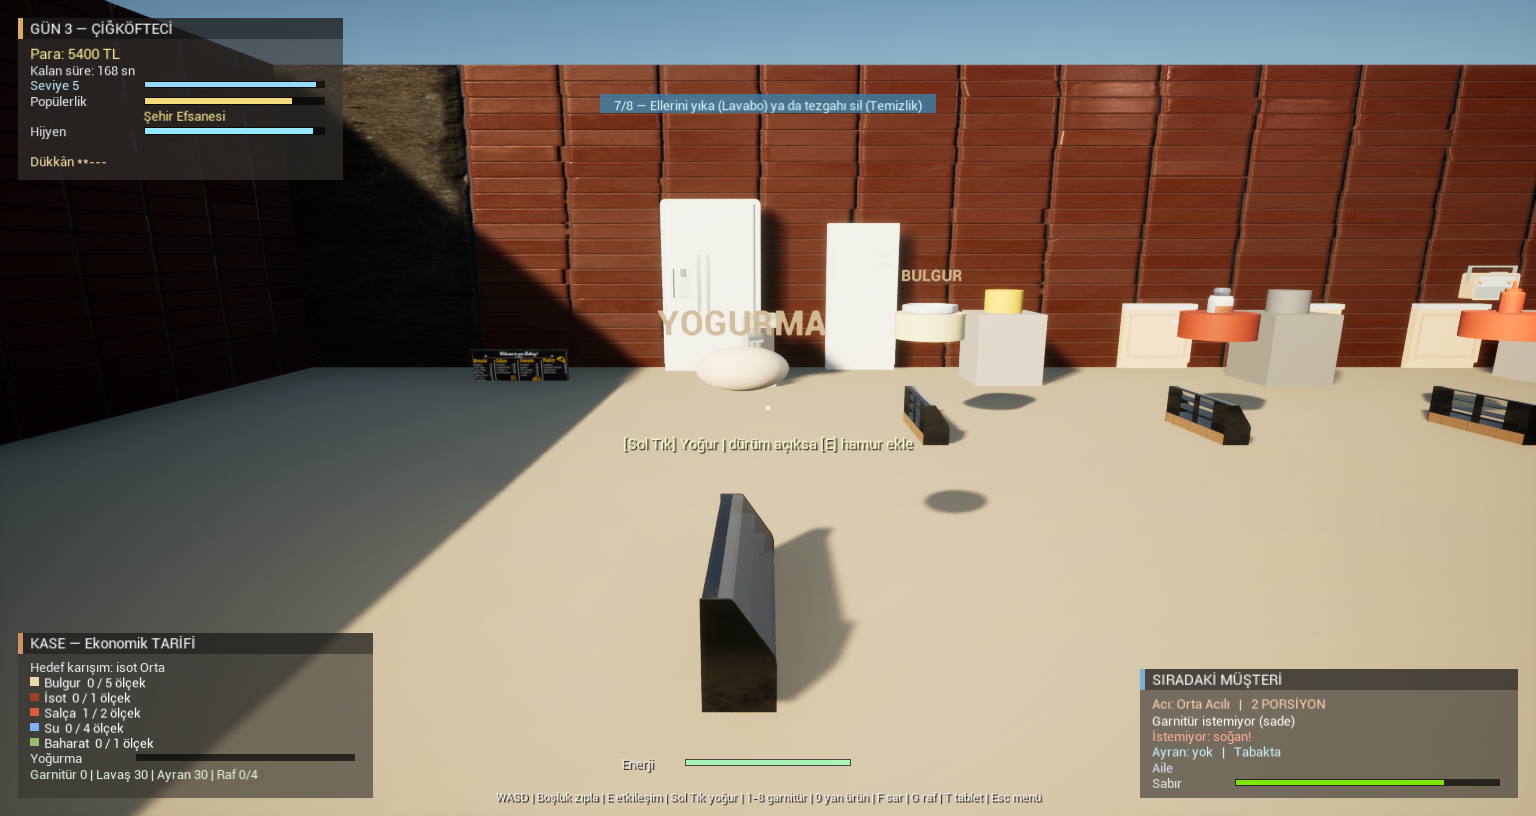
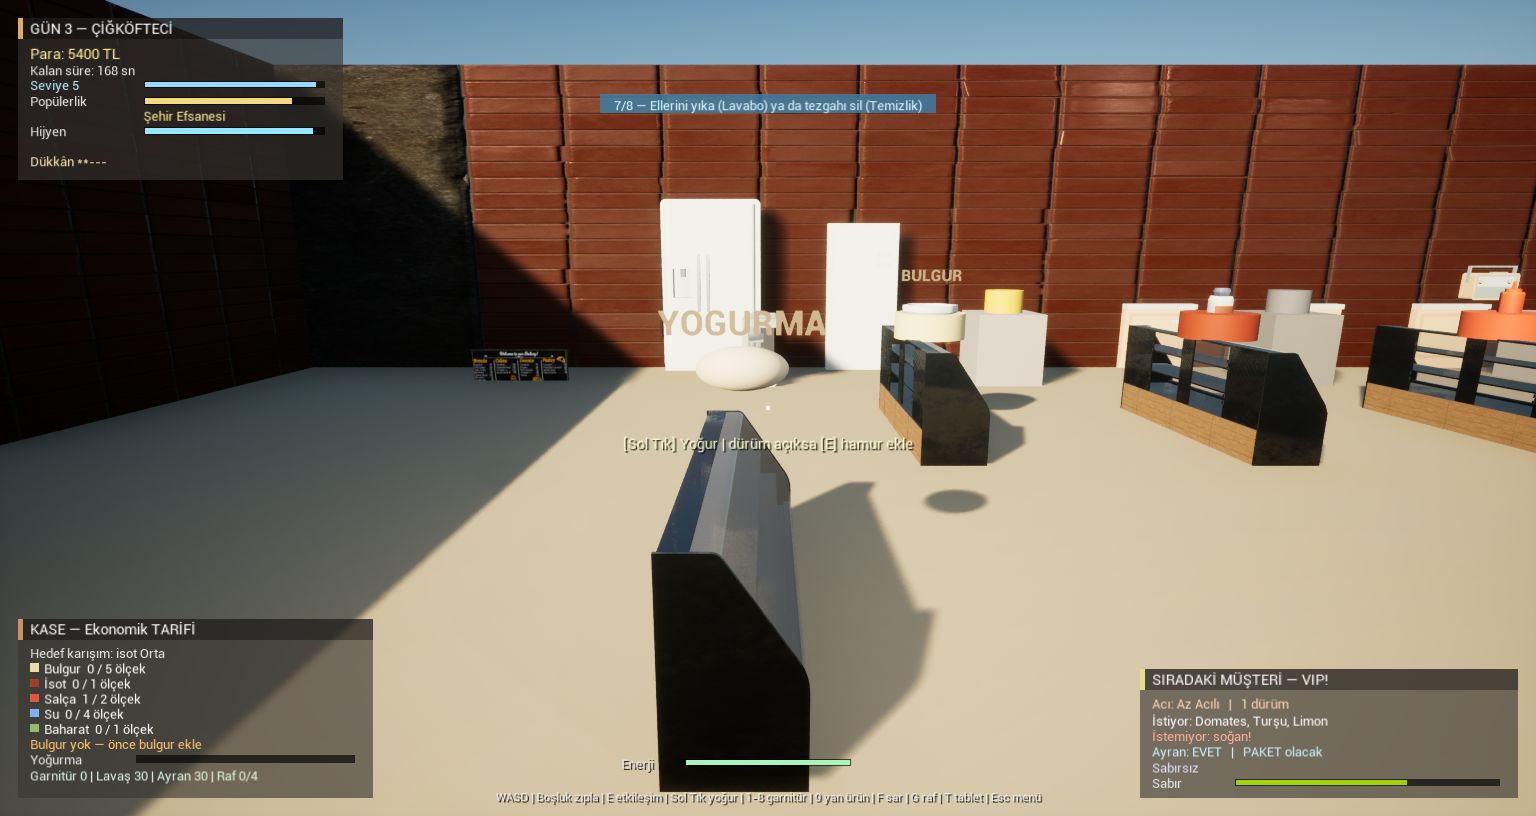
fix: counters stand at counter height, and the isot target was uninitialised memory
Two things, and the second one is the reason the first was worth doing.

The counters. SM_BakeryCounter02 is a four-metre counter, 172 high, and the
ingredient stations measure it against a 90cm cube - so it fitted at 0.22 scale,
39cm tall, and the shop was furnished with units the player reaches down into.
Height is the measurement that has to be right, because it is what the player
stands at; length is what a shop varies. The model may now run past its footprint
while still being bounded exactly by the box height, so the counters come out at
210 long and 90 high, against 250 between stations - a row with a gap.

Granted per station, and the first version granted it to everything: the flat
panels are authored lying down, so their mesh height is a thickness of two units.
The rule could not tell that from a counter that is short for its box, and it
inflated a 45cm sign into a three-metre one. The counter list is its own
predicate rather than a reuse of StationKeepsTop - which contains five of the
seven - because "has a tub" and "is a counter" are different questions, and
merging them left the kneading and chopping benches knee-high beside their
neighbours.

Then the test found the real one. Cigkofte.MixDiagnosis failed on a mix that is
on target by construction, and the numbers in the failure said the isot target
was 6. Another run said 1. TargetCounts fills the array by name and then sums
indices 0..3 - and the enum runs Bulgur, Isot, Salca, Su, Baharat, so index 1 is
[…]

diff --git a/Source/CigkofteSimulator/World/CigkofteStation.cpp b/Source/CigkofteSimulator/World/CigkofteStation.cpp
@@ -33,6 +33,31 @@ static bool StationKeepsTop(ECigStation Type)
 	}
 }
 
+// The stations furnished with the four-metre bakery counter.
+//
+// Kept as its own list rather than reusing StationKeepsTop, which happens to
+// contain five of them: they are different questions. One asks whether the
+// coloured tub survives, the other whether the model is a counter that has to
+// stand at counter height. Merging them would have left the kneading and
+// chopping benches knee-high next to their neighbours, which is what the first
+// version of this did.
+static bool StationIsCounterRun(ECigStation Type)
+{
+	switch (Type)
+	{
+	case ECigStation::Bulgur:
+	case ECigStation::Isot:
+	case ECigStation::Salca:
+	case ECigStation::Su:
+	case ECigStation::Baharat:
+	case ECigStation::Yogurma:
+	case ECigStation::Dograma:
+		return true;
+	default:
+		return false;
+	}
+}
+
 namespace
 {
 	UStaticMesh* CigLoadPrimitiveMesh(const TCHAR* Path)
@@ -288,7 +313,11 @@ void ACigkofteStation::Setup(ECigStation InType, const FLinearColor& Color, cons
 
 	// Last, so everything above still describes the box the layout reserved.
 	// Without the pack this does nothing and the coloured primitives stand.
-	ApplyStationMesh(MeshForStation(StationType), BaseScale);
+	// The counters get the overhang; nothing else does. Two and a half boxes of
+	// length puts SM_BakeryCounter02 at 210 against 250 between stations - a row
+	// of counters with a gap, which is what a kitchen looks like.
+	const float Overhang = StationIsCounterRun(StationType) ? 2.5f : 1.f;
+	ApplyStationMesh(MeshForStation(StationType), BaseScale, Overhang);
 
 	UpdateTickState();
 }
@@ -501,7 +530,7 @@ UStaticMesh* ACigkofteStation::MeshForStation(ECigStation Type)
 	}
 }
 
-void ACigkofteStation::ApplyStationMesh(UStaticMesh* Mesh, const FVector& BaseScale)
+void ACigkofteStation::ApplyStationMesh(UStaticMesh* Mesh, const FVector& BaseScale, float FootprintOverhang)
 {
 	if (!Mesh || !Visual)
 	{
@@ -520,10 +549,26 @@ void ACigkofteStation::ApplyStationMesh(UStaticMesh* Mesh, const FVector& BaseSc
 	const FVector RawSize = B.BoxExtent * 2.f;
 	const FVector TargetBox = 100.f * BaseScale.GetAbs(); // the cube is 100uu a side
 
-	auto FitInto = [&TargetBox](float SizeX, float SizeY, float SizeZ)
+	// Height is a hard limit; the footprint may be allowed to overhang.
+	//
+	// The ingredient stations are the case that forced this. Their box is a 90cm
+	// cube and SM_BakeryCounter02 is a four-metre counter, 172 high - so fitting
+	// inside the box on every axis put the counter at 0.22 scale, 39cm tall, and
+	// furnished the shop with knee-high units the player reaches down into.
+	//
+	// A counter's height is the measurement that has to be right: it is what the
+	// player stands at. Its length is what a shop varies.
+	//
+	// Granted per station rather than to everything, and the first version did
+	// grant it to everything: the flat panels - the menu board, the sign - are
+	// authored lying down, so their mesh height is a thickness of two units. The
+	// rule could not tell that from a counter that is short for its box, and it
+	// inflated a 45cm sign into a three-metre one.
+	const float Overhang = FMath::Max(FootprintOverhang, 1.f);
+	auto FitInto = [&TargetBox, Overhang](float SizeX, float SizeY, float SizeZ)
 	{
-		return FMath::Min3(TargetBox.X / FMath::Max(SizeX, 1.f),
-			TargetBox.Y / FMath::Max(SizeY, 1.f),
+		return FMath::Min3(TargetBox.X * Overhang / FMath::Max(SizeX, 1.f),
+			TargetBox.Y * Overhang / FMath::Max(SizeY, 1.f),
 			TargetBox.Z / FMath::Max(SizeZ, 1.f));
 	};
 

diff --git a/Source/CigkofteSimulator/Tests/CigMixDiagnosisTests.cpp b/Source/CigkofteSimulator/Tests/CigMixDiagnosisTests.cpp
@@ -54,7 +54,25 @@ bool FCigMixOnTargetSaysNothing::RunTest(const FString&)
 		Hedef[(int32)ECigIngredient::Salca], Hedef[(int32)ECigIngredient::Baharat],
 		Hedef[(int32)ECigIngredient::Isot]);
 
-	TestFalse(TEXT("Hedefi tutturan karışım uyarı almamalı"), D.IsProblem());
+	// The failure message carries the bowl, which is how this test earned itself:
+	// it failed on a mix that is on target by construction, and the numbers said
+	// the isot target was 6 in one run and 1 in another. TargetCounts was summing
+	// array indices 0..3 while filling the array by name, so it read the
+	// uninitialised isot slot and skipped baharat. The number the HUD showed the
+	// player was uninitialised stack memory.
+	TestFalse(FString::Printf(TEXT("Hedefi tutturan karışım uyarı almamalı (sorun=%d şiddet=%.2f, kase=%d/%d/%d/%d/%d)"),
+		(int32)D.Problem, D.Severity,
+		Hedef[(int32)ECigIngredient::Bulgur], Hedef[(int32)ECigIngredient::Su],
+		Hedef[(int32)ECigIngredient::Salca], Hedef[(int32)ECigIngredient::Baharat],
+		Hedef[(int32)ECigIngredient::Isot]), D.IsProblem());
+
+	// Pinned directly as well, because the diagnosis test above only catches it
+	// while the threshold happens to be tight enough to notice.
+	TestTrue(TEXT("İsot hedefi tarifin bandının içinde olmalı"),
+		(float)Hedef[(int32)ECigIngredient::Isot] /
+			(float)(Hedef[(int32)ECigIngredient::Bulgur] + Hedef[(int32)ECigIngredient::Su] +
+				Hedef[(int32)ECigIngredient::Salca] + Hedef[(int32)ECigIngredient::Baharat] +
+				Hedef[(int32)ECigIngredient::Isot]) <= R.IsotMaxFrac + 0.01f);
 
 	// An empty bowl is not a fault. It is where every batch starts.
 	TestFalse(TEXT("Boş kase sorun sayılmamalı"), Bak(0, 0, 0, 0, 0).IsProblem());

diff --git a/Source/CigkofteSimulator/Cooking/CigCookingSystem.cpp b/Source/CigkofteSimulator/Cooking/CigCookingSystem.cpp
@@ -130,9 +130,21 @@ void UCigCookingSystem::TargetCounts(const FCigRecipe& R, int32 OutCounts[(int32
 	OutCounts[(int32)ECigIngredient::Salca] = FMath::Max(1, FMath::RoundToInt(BulgurBase * R.RatioSalca));
 	OutCounts[(int32)ECigIngredient::Baharat] = FMath::Max(1, FMath::RoundToInt(BulgurBase * R.RatioBaharat));
 
-	// Isot: the count that lands in the middle of the recipe's range
+	// Isot: the count that lands in the middle of the recipe's range.
+	//
+	// The four others are summed by name. Summing indices 0..3 looks equivalent
+	// and is not: the enum runs Bulgur, Isot, Salca, Su, Baharat, so index 1 is
+	// isot - the one slot nothing has written yet - and index 4, Baharat, is left
+	// out. The isot target shown to the player was therefore derived from
+	// uninitialised stack memory, and came out as a different number on every
+	// run: the screenshot pass caught "İsot 0 / 6", "0 / 3", "0 / 2" and "0 / 1"
+	// across four captures of the same recipe before a test pinned it.
 	const float MidFrac = (R.IsotMinFrac + R.IsotMaxFrac) * 0.5f;
-	const int32 Others = OutCounts[0] + OutCounts[1] + OutCounts[2] + OutCounts[3];
+	const int32 Others =
+		OutCounts[(int32)ECigIngredient::Bulgur] +
+		OutCounts[(int32)ECigIngredient::Su] +
+		OutCounts[(int32)ECigIngredient::Salca] +
+		OutCounts[(int32)ECigIngredient::Baharat];
 	OutCounts[(int32)ECigIngredient::Isot] = FMath::Clamp(FMath::RoundToInt(MidFrac * Others / (1.f - MidFrac)), 1, 6);
 }
 

diff --git a/Source/CigkofteSimulator/World/CigkofteStation.h b/Source/CigkofteSimulator/World/CigkofteStation.h
@@ -136,5 +136,8 @@ private:
 	// Fits the model inside the collision box the layout was built around and
 	// hides the primitives. No-op without a mesh, which is what keeps the shop
 	// standing on a machine that does not have the pack.
-	void ApplyStationMesh(UStaticMesh* Mesh, const FVector& BaseScale);
+	// Overhang: how far the model may run past its footprint while still being
+	// bounded exactly by the box's height. 1 means "fit inside the box", which is
+	// right for everything that is not a counter.
+	void ApplyStationMesh(UStaticMesh* Mesh, const FVector& BaseScale, float FootprintOverhang);
 };

diff --git a/docs/CommercialDemo/KNOWN_LIMITATIONS.md b/docs/CommercialDemo/KNOWN_LIMITATIONS.md
@@ -5,14 +5,12 @@ not fixed yet belong in `PLAN.md`, not here.
 
 ## Visual
 
-- **The ingredient counters are stubs.** `SM_BakeryCounter02` is a four-metre
-  bakery counter and the ingredient stations measure it against a 90cm cube, so
-  it comes out at 0.22 scale — 90 wide and 39 high, a low cabinet rather than a
-  counter. It reads acceptably because the coloured tub sits on top and that is
-  what the player aims at, but the shop is furnished with knee-high units. The
-  quarter-turn fix does not reach this: the box is cubic, so both orientations
-  fit the same. It needs either a shorter mesh or stations that share one counter
-  run.
+- **The counters overhang their interaction boxes.** Fixed the knee-high units
+  they replaced — the counters now stand at 90cm — but they do it by letting the
+  model run to 210cm inside a 90cm box. Where the player can stand and interact
+  is unchanged, which is the point, and it means the visible counter and the
+  volume it answers to are no longer the same shape. Fine while the stations are
+  250 apart; it would need revisiting if a layout ever put two closer than that.
 
 - **Signage pops in and out at 700uu.** Fixed the overlap it replaced — the far
   counter row's names no longer project across the near row in wide shots — but
